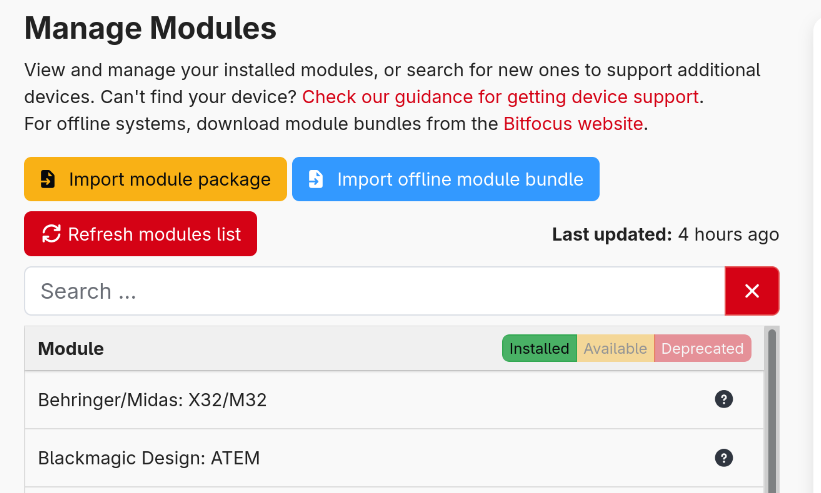
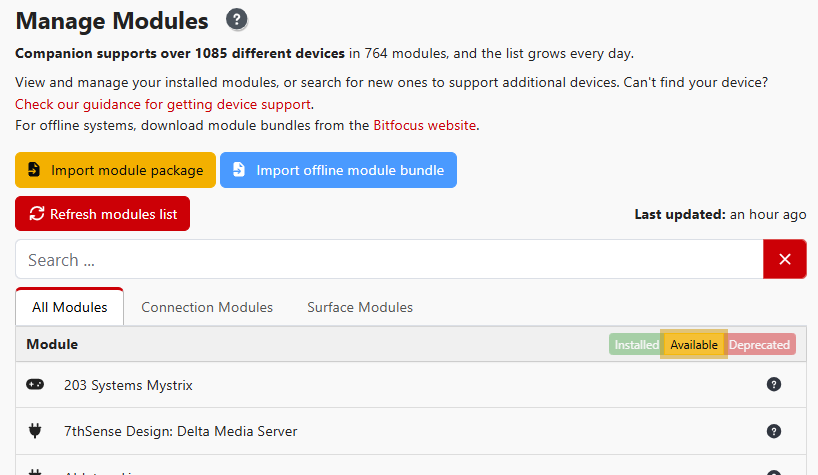
feat:  update documentation
Update images and do a bit of copy-editing on the surfaces pages (which was the original intent of this exercise!)

diff --git a/docs/user-guide/7_surfaces/index.md b/docs/user-guide/7_surfaces/index.md
@@ -17,11 +17,15 @@ In the right panel, click the red <span style={{color: "white", background: "#CC
 
 ![Surface integrations panel](./images/surface-integrations-panel.png)
 
+If the "All Available" button isn't blue, click it to show modules you haven't yet installed. When it looks like this: <span style={{color: "white", background: "#89bdff", borderTopRightRadius: "5px", borderBottomRightRadius: "5px", fontSize: "0.8em", padding: "0.5em"}}>All&nbsp;Available</span> you're seeing all available surface modules.
+
+![Add Surface integration panel](./images/surface-integrations-add-panel.png)
+
 From there, [Installing](../3_config/connections.md#adding-a-connection), [configuring](../3_config/connections.md#configuring-a-connection), and [updating](../3_config/connections.md#updating-a-connection) a surface module follows the same workflow as for Connections.
 
-The module list and offline import can be managed from the [Modules page](../3_config/modules.md).
+You can also add surface modules from the [Modules page](../3_config/modules.md), including importing offline surface modules.
 
-A full list of available surface modules and supported device models is on the [Bitfocus Developer site](https://developer.bitfocus.io/modules/companion-surface/discover).
+A full list of available surface modules and supported device models is also available at the [Bitfocus Developer site](https://developer.bitfocus.io/modules/companion-surface/discover).
 
 ## General Surface Settings
 

diff --git a/docs/user-guide/3_config/surfaces.md b/docs/user-guide/3_config/surfaces.md
@@ -12,7 +12,7 @@ Configured surfaces define the mapping from Companion's [buttons](./buttons/inde
 
 :::important
 
-Before Companion can recognize a new surface you must ensure that the appropriate **surface integration** module has been installed and enabled.
+Before Companion can recognize a new surface you must ensure that the appropriate [**surface integration** module](../7_surfaces/index.md) has been installed and enabled.
 
 :::
 
